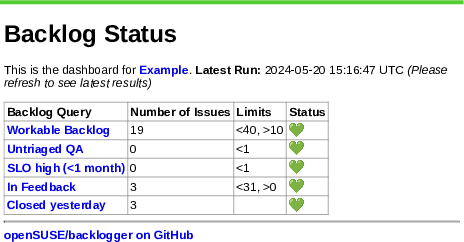
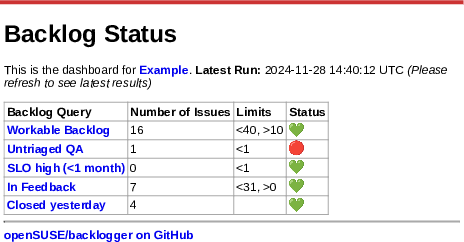
Deploying to gh-pages from @ openSUSE/backlogger@24fd8f6df74a63491463dbf6291717220aad5f87 🚀

diff --git a/index.html b/index.html
@@ -5,12 +5,11 @@
 <!-- Facebook / Slack tags -->
 <meta property="og:title" content="Backlog Limits Checker Preview" />
 <meta property="og:url" content="https://github.com/openSUSE/backlogger" />
-<meta property="og:image" content="https://openSUSE.github.io/backlogger/preview.png?v=1716218211" />
 <meta http-equiv="refresh" content="600">
 <style>
 main {
     font-family: Verdana, Arial;
-    border-top: 5px solid #55cc33;
+    border-top: 5px solid #cc3333;
     margin: 0px 5px 5px 5px;
     padding: 0 5px;
     background-color: white;
@@ -36,7 +35,7 @@ a {
 <h1 id="backlog-status">Backlog Status</h1>
 
 <p>This is the dashboard for <a href="http://example.com">Example</a>.
-<strong>Latest Run:</strong> 2024-05-20 15:16:47 UTC
+<strong>Latest Run:</strong> 2024-11-28 14:40:12 UTC
 <em>(Please refresh to see latest results)</em></p>
 
 <table>
@@ -51,15 +50,15 @@ a {
   <tbody>
     <tr>
       <td><a href="https://progress.opensuse.org/issues?query_id=478">Workable Backlog</a></td>
-      <td>19</td>
+      <td>16</td>
       <td>&lt;40, &gt;10</td>
       <td>💚</td>
     </tr>
     <tr>
       <td><a href="https://progress.opensuse.org/issues?query_id=576&amp;project_id=115">Untriaged QA</a></td>
-      <td>0</td>
+      <td>1</td>
       <td>&lt;1</td>
-      <td>💚</td>
+      <td>🔴</td>
     </tr>
     <tr>
       <td><a href="https://progress.opensuse.org/issues?query_id=544">SLO high (&lt;1 month)</a></td>
@@ -69,13 +68,13 @@ a {
     </tr>
     <tr>
       <td><a href="https://progress.opensuse.org/issues?query_id=520">In Feedback</a></td>
-      <td>3</td>
+      <td>7</td>
       <td>&lt;31, &gt;0</td>
       <td>💚</td>
     </tr>
     <tr>
       <td><a href="https://progress.opensuse.org/issues?query_id=773">Closed yesterday</a></td>
-      <td>3</td>
+      <td>4</td>
       <td> </td>
       <td>💚</td>
     </tr>